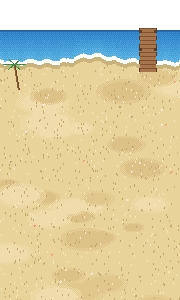
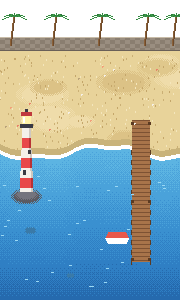
해변 출발 그림: 바다를 아래쪽으로 넓게, 등대 더함 (경완 '해변은 바다가 아래쪽으로. 그리고 바다가 더 많이 보였으면 좋겠음' '등대도 있고')
Claude-Session: https://claude.ai/code/session_012Z4iFifcZH9cfXSxsF9mWo

diff --git a/assets_src/maps/init/init.py b/assets_src/maps/init/init.py
@@ -86,34 +86,55 @@ def cave():
   # 이끼 자리
   for i in range(10): c.blot(R.random()*W,75+R.random()*220,4+R.random()*5,'#4c6a4e')
   return c.im
-# ---------- 항구 해변 ----------
+# ---------- 항구 해변 (바다 아래쪽, 넓게) ----------
 def beach():
   c=C(); R=random.Random(9)
-  ground(c,'#e8d39a',['#e0c88c','#efdcaa','#dcc286'],['#cbb075','#f4e6bc','#c4a66a'],60,3)
-  SEA=['#2f7fc4','#3a90d0','#4aa2da','#5cb4e2']
+  ground(c,'#e8d39a',['#e0c88c','#efdcaa','#dcc286'],['#cbb075','#f4e6bc','#c4a66a'],50,3)
+  # 뒤 띠: 낮은 방파제 돌담 + 야자수 줄
   for x in range(W):
-    sh=edge(x,62)+round(math.sin(x*.05)*3)
-    grad(c,x,30,sh-4,SEA)
-    for y in range(sh-4,sh): c.px(x,y,'#ffffff')      # 파도 거품 (움직임 자리)
-    for y in range(sh,sh+4): c.px(x,y,'#c9b37a')      # 젖은 모래
-  # 수평선 띠 조금 짙게
-  for x in range(W): c.px(x,30,'#235f9a'); c.px(x,31,'#2a6eb0')
-  # 부두 (오른쪽 위로 바다에 나무 부두)
-  for y in range(28,72):
-    c.rect(140,y,16,1,'#a8744a' if (y%4) else '#7d5233')
-  for y in range(28,72,8): c.rect(139,y,1,4,'#5c3b22'); c.rect(156,y,1,4,'#5c3b22')
-  # 부두 기둥 머리·밧줄 말뚝
-  for (x,y) in [(140,30),(155,30),(140,48),(155,48)]: c.rect(x-1,y,3,3,'#5c3b22')
-  # 조개·불가사리·돌
-  for i in range(18):
-    x,y=R.random()*W,80+R.random()*215
+    for y in range(38,50): c.px(x,y,'#9a8e80' if ((x//5)+(y//4))%2 else '#8a7e70')
+    c.px(x,37,'#c8bca8'); c.px(x,50,'#6a6058')
+  for px0 in (10,52,98,144,172):
+    for y in range(16,46): c.px(px0+(46-y)//8,y,'#8a6038'); c.px(px0+1+(46-y)//8,y,'#6e4a2a')
+    tx=px0+4
+    for a in range(7):
+      t=3.3+a*0.47
+      for r in range(13): c.px(tx+math.cos(t)*r,16+math.sin(t)*r*.6+r*r*.03,'#3c9a4a' if r%3 else '#2e7a3a')
+  # 바다: 아래 절반 가까이 (y 150~300)
+  SEA=['#5cb4e2','#4aa2da','#3a90d0','#2f7fc4','#256aae']
+  for x in range(W):
+    sh=150+round(math.sin(x*.045)*6+math.sin(x*.13)*2)
+    for y in range(sh-6,sh): c.px(x,y,'#c9b37a')      # 젖은 모래
+    for y in range(sh,sh+4): c.px(x,y,'#ffffff')      # 파도 거품 (움직임 자리)
+    grad(c,x,sh+4,H,SEA)
+  # 부두: 오른쪽 모래에서 바다로
+  for y in range(120,262):
+    c.rect(132,y,18,1,'#a8744a' if (y%4) else '#7d5233')
+  for y in range(150,264,10): c.rect(131,y,1,5,'#5c3b22'); c.rect(150,y,1,5,'#5c3b22')
+  for (x,y) in [(132,122),(149,122),(132,200),(149,200),(132,258),(149,258)]: c.rect(x-1,y,3,3,'#5c3b22')
+  # 작은 배 (부두 옆)
+  for y in range(232,244):
+    w=14-abs(y-238)
+    c.rect(112-w//2,y,w+10,1,'#e8584a' if y<238 else '#ffffff')
+  # 바다 반짝 자리·물속 돌
+  for i in range(30):
+    x,y=R.random()*W,175+R.random()*120; c.rect(x,y,3,1,'#9ad8f4')
+  for (x,y,r) in [(30,230,6),(70,275,4)]: c.blot(x,y,r,'#3a7aa8',r*.6)
+  # 조개·불가사리
+  for i in range(16):
+    x,y=R.random()*W,60+R.random()*85
     col=R.choice(['#f5f0e8','#f2a07a','#e8826a','#b9a27a'])
     c.px(x,y,col); c.px(x+1,y,col); c.px(x,y+1,col)
-  # 야자수 자리 (왼쪽 위 모래)
-  for y in range(64,90): c.px(14+ (y-64)//6,y,'#8a6038'); c.px(15+(y-64)//6,y,'#6e4a2a')
-  for a in range(6):
-    t=a*1.05
-    for r in range(12): c.px(14+math.cos(t)*r,64+math.sin(t)*r*.5,'#3c9a4a' if r%3 else '#2e7a3a')
+  # 등대: 왼쪽 바다 바위 위 (빛 도는 건 코드로)
+  c.blot(26,196,16,'#5a5a62',8); c.blot(26,194,12,'#74747e',6)
+  for y in range(128,192):
+    t=(y-128)/64; w=int(8+t*6)
+    for x in range(26-w//2,26+w//2+1):
+      band=((y-128)//10)%2
+      c.px(x,y,('#e8484a' if band else '#f4f0ea') if x<26+w//2-1 else ('#b83234' if band else '#cfc8c0'))
+  c.rect(20,124,13,4,'#3a3a44'); c.rect(22,116,9,8,'#fff2a8'); c.rect(23,117,2,6,'#ffffff')
+  c.rect(21,112,11,4,'#c03a3c'); c.rect(25,109,3,3,'#3a3a44')
+  c.rect(23,170,3,5,'#3a3a44'); c.rect(28,150,3,4,'#3a3a44')
   return c.im
 # ---------- 놀이공원 (큰 놀이기구 없음) ----------
 def park():
